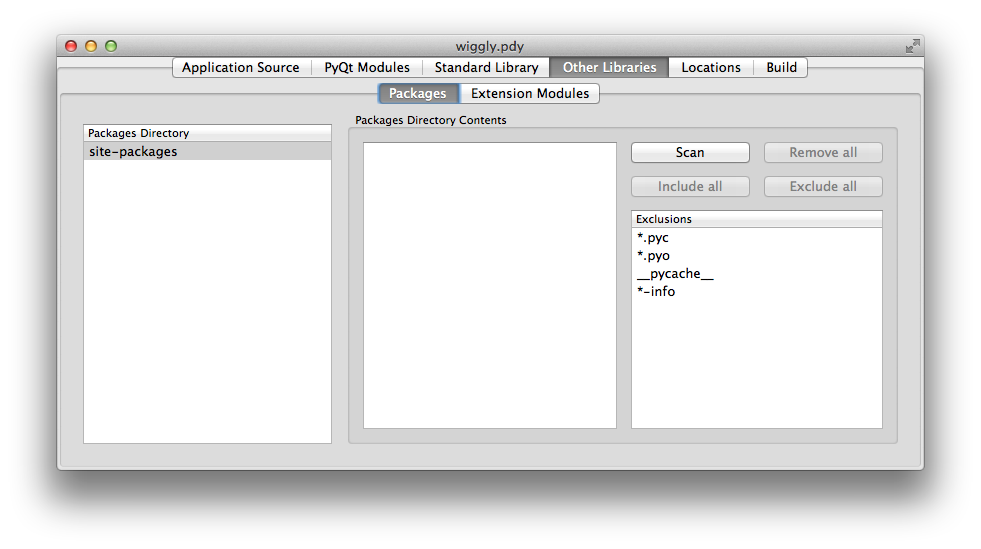
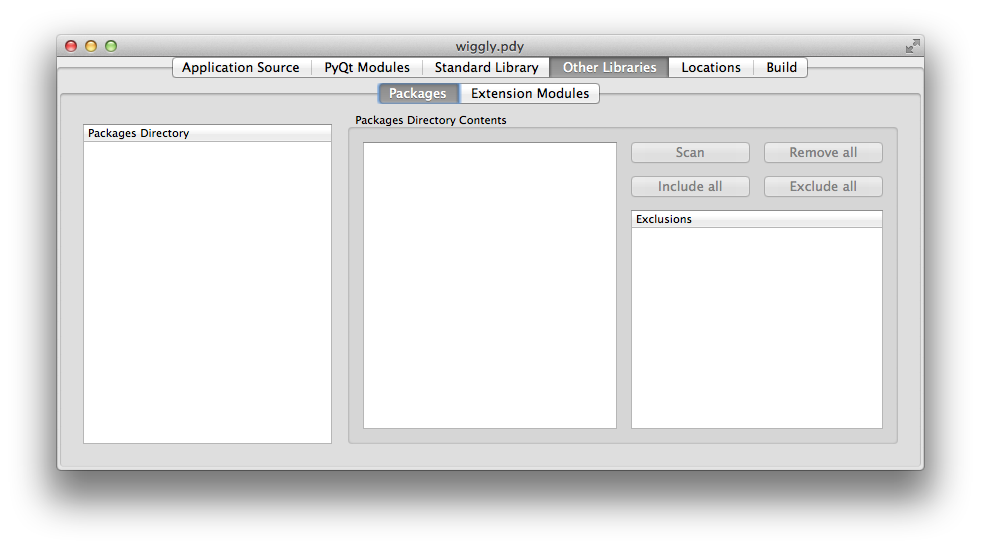
The site-packges directory of the target standard library no longer gets any special treatment.

Changed region(s): [[0.0612, 0.2477, 0.3364, 0.3097], [0.6422, 0.4026, 0.7339, 0.5574], [0.6728, 0.2477, 0.7339, 0.3097]]

diff --git a/pyqtdeploy/project/project.py b/pyqtdeploy/project/project.py
@@ -44,6 +44,8 @@ class Project(QObject):
     #   3: Added the sourcedir attribute to the Python element.
     #      Added the StdlibExtensionModule element to the Stdlib element.
     #      Added the name and entrypoint attributes to the Application element.
+    #      The first Package element of the SitePackages element is now not
+    #      treated specially as the standard library site-packages directory.
     version = 3
 
     # Emitted when the modification state of the project changes.
@@ -221,6 +223,16 @@ class Project(QObject):
         project = cls()
         project.name = abs_filename
 
+        # The Python specific configuration.
+        python = root.find('Python')
+        cls._assert(python is not None, "Missing 'Python' tag.")
+
+        project.python_host_interpreter = python.get('hostinterpreter', '')
+        project.python_source_dir = python.get('sourcedir', '')
+        project.python_target_include_dir = python.get('targetincludedir', '')
+        project.python_target_library = python.get('targetlibrary', '')
+        project.python_target_stdlib_dir = python.get('targetstdlibdir', '')
+
         # The application specific configuration.
         application = root.find('Application')
         cls._assert(application is not None, "Missing 'Application' tag.")
@@ -243,14 +255,26 @@ class Project(QObject):
                     "Missing or empty 'PyQtModule.name' attribute.")
             project.pyqt_modules.append(name)
 
+        # Note that SitePackages is now mis-named - OtherLibraries would be
+        # more accurate.
         site_packages = application.find('SitePackages')
         cls._assert(site_packages is not None,
                 "Missing 'Application.SitePackages' tag.")
         project.packages = [cls._load_package(package)
                 for package in site_packages.iterfind('Package')]
-        cls._assert(len(project.packages) != 0,
-                "Missing 'Application.SitePackages.Package' tag.")
 
+        # If the first package has a blank name then we have the version 2
+        # format or earlier.
+        if len(project.packages) != 0 and project.packages[0].name == '':
+            # If it is empty just remove it.
+            if len(project.packages[0].contents) == 0:
+                del project.packages[0]
+            else:
+                # Give it a name.
+                project.packages[0].name = project.relative_path(
+                        os.path.join(project.python_target_stdlib_dir,
+                                'site-packages'))
+                
         stdlib = application.find('Stdlib')
         cls._assert(stdlib is not None, "Missing 'Application.Stdlib' tag.")
         stdlib_package = stdlib.find('Package')
@@ -282,17 +306,7 @@ class Project(QObject):
 
             project.extension_modules.append(ExtensionModule(name, path))
 
-        # The Python specific configuration.
-        python = root.find('Python')
-        cls._assert(python is not None, "Missing 'Python' tag.")
-
-        project.python_host_interpreter = python.get('hostinterpreter', '')
-        project.python_source_dir = python.get('sourcedir', '')
-        project.python_target_include_dir = python.get('targetincludedir', '')
-        project.python_target_library = python.get('targetlibrary', '')
-        project.python_target_stdlib_dir = python.get('targetstdlibdir', '')
-
-        # The other configuration (added in version 1).
+        # The other configuration.
         others = root.find('Others')
         if others is not None:
             project.build_dir = others.get('builddir', '')

diff --git a/pyqtdeploy/gui/other_packages_subpage.py b/pyqtdeploy/gui/other_packages_subpage.py
@@ -105,27 +105,18 @@ class OtherPackagesSubpage(QWidget):
 
         self._add_package_dir()
 
-        self._package_selector.setCurrentItem(
-                self._package_selector.topLevelItem(0))
-
     def _add_package_dir(self, package=None):
         """ Add a QTreeWidgetItem that holds a package directory. """
-
-        flags = Qt.ItemIsSelectable|Qt.ItemIsEnabled|Qt.ItemNeverHasChildren
 
         if package is None:
             package = QrcPackage()
             name = ''
-            flags |= Qt.ItemIsEditable
-        elif package is self.project.packages[0]:
-            name = 'site-packages'
         else:
             name = package.name
-            flags |= Qt.ItemIsEditable
 
         itm = QTreeWidgetItem([name])
         itm.setData(0, Qt.UserRole, package)
-        itm.setFlags(flags)
+        itm.setFlags(Qt.ItemIsSelectable|Qt.ItemIsEnabled|Qt.ItemNeverHasChildren|Qt.ItemIsEditable)
 
         self._package_selector.addTopLevelItem(itm)
 
@@ -181,19 +172,6 @@ class _PackageDirectoryEditor(QrcPackageEditor):
         project = self.project
         package = self.package
 
-        if package is project.packages[0]:
-            stdlib_dir = project.absolute_path(
-                    project.python_target_stdlib_dir)
-
-            if stdlib_dir == '':
-                QMessageBox.warning(self.parentWidget(), self.title,
-                        "site-packages cannot be scanned because the "
-                        "directory name of the standard library has not been "
-                        "set in the Locations tab.")
-                return ''
-
-            return os.path.join(stdlib_dir, 'site-packages')
-
         if package.name == '':
             QMessageBox.warning(self.parentWidget(), self.title,
                         "The name of the package directory has not been set.")
@@ -202,7 +180,7 @@ class _PackageDirectoryEditor(QrcPackageEditor):
         return project.absolute_path(package.name)
 
     def filter(self, name):
-        """ Reimplemented to filter out the PyQt related stuff. """
+        """ Reimplemented to filter out any PyQt related stuff. """
 
         if name in ('libsip.a', 'sip.so', 'sip.lib', 'sip.pyd', 'PyQt5', 'PyQt4'):
             return True

diff --git a/pyqtdeploy/gui/qrc_package_editor.py b/pyqtdeploy/gui/qrc_package_editor.py
@@ -57,7 +57,9 @@ class QrcPackageEditor(QGridLayout):
         self._package_edit.itemChanged.connect(self._package_changed)
         self.addWidget(self._package_edit, 0, 0, 3, 1)
 
-        self.addWidget(QPushButton(scan, clicked=self._scan), 0, 1)
+        self._scan_button = QPushButton(scan,
+                clicked=self._scan, enabled=False)
+        self.addWidget(self._scan_button, 0, 1)
 
         self._remove_button = QPushButton("Remove all",
                 clicked=self._remove_all, enabled=False)
@@ -101,6 +103,8 @@ class QrcPackageEditor(QGridLayout):
 
         # Add one to be edited to create a new entry.
         self._add_exclusion_item()
+
+        self._scan_button.setEnabled(package is not None)
 
     def get_root_dir(self):
         """ Return the root directory to scan, or '' if there was an error or

diff --git a/doc/tutorial.rst b/doc/tutorial.rst
@@ -242,11 +242,8 @@ packages (i.e. other than those that are part of the Python standard library).
 You then specify which individual modules are needed, either implicitly or
 explicitly, by the application.
 
-By default the only directory defined is the target Python interpreter's
-``site-packages`` directory which, unless you have installed additional
-packages, will be empty.  To edit the list of directories just double-click on
-the entry to modify or delete.  To add a new entry just double-click the list
-after the last entry.
+To edit the list of directories just double-click on the entry to modify or
+delete.  To add a new entry just double-click the list after the last entry.
 
 In many cases you will want to add the ``site-packages`` directory of your host
 Python interpreter, i.e. the interpreter being used to develop the application,
